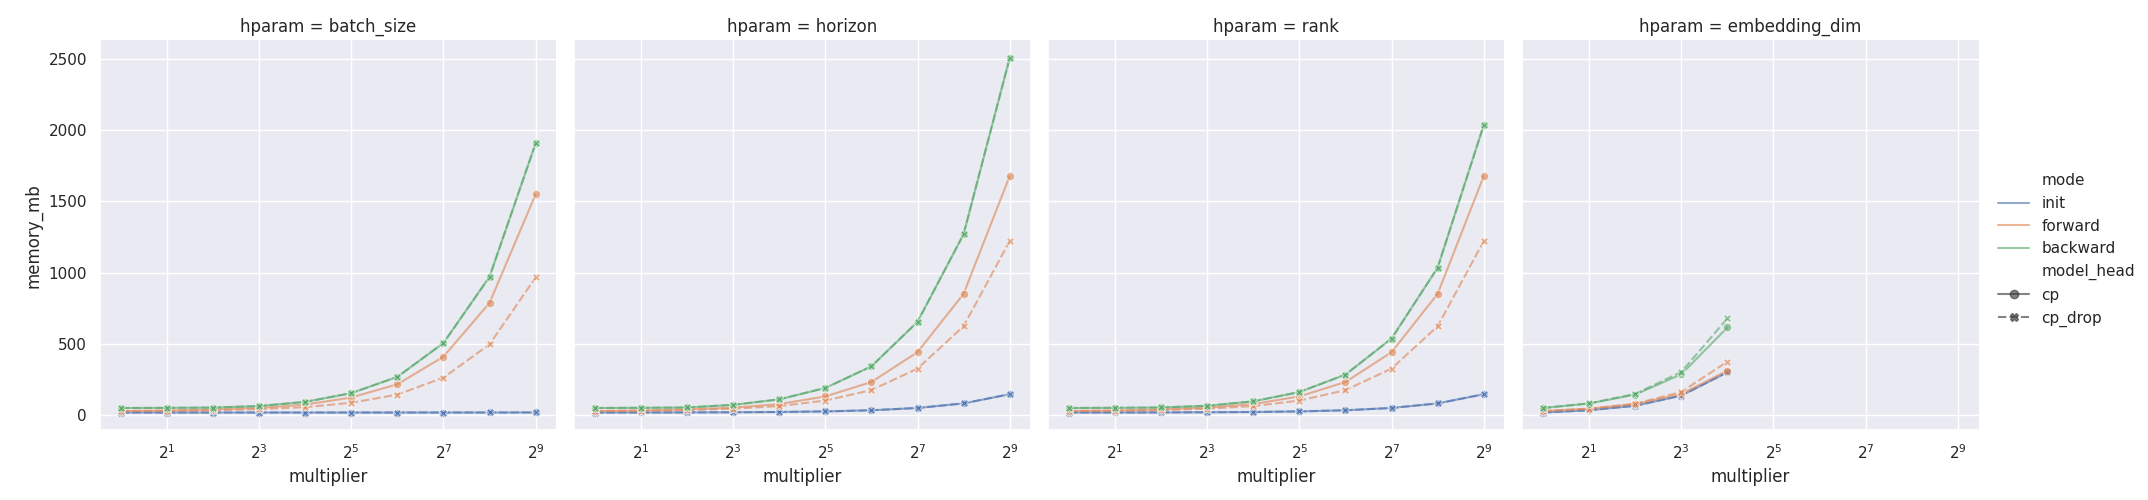
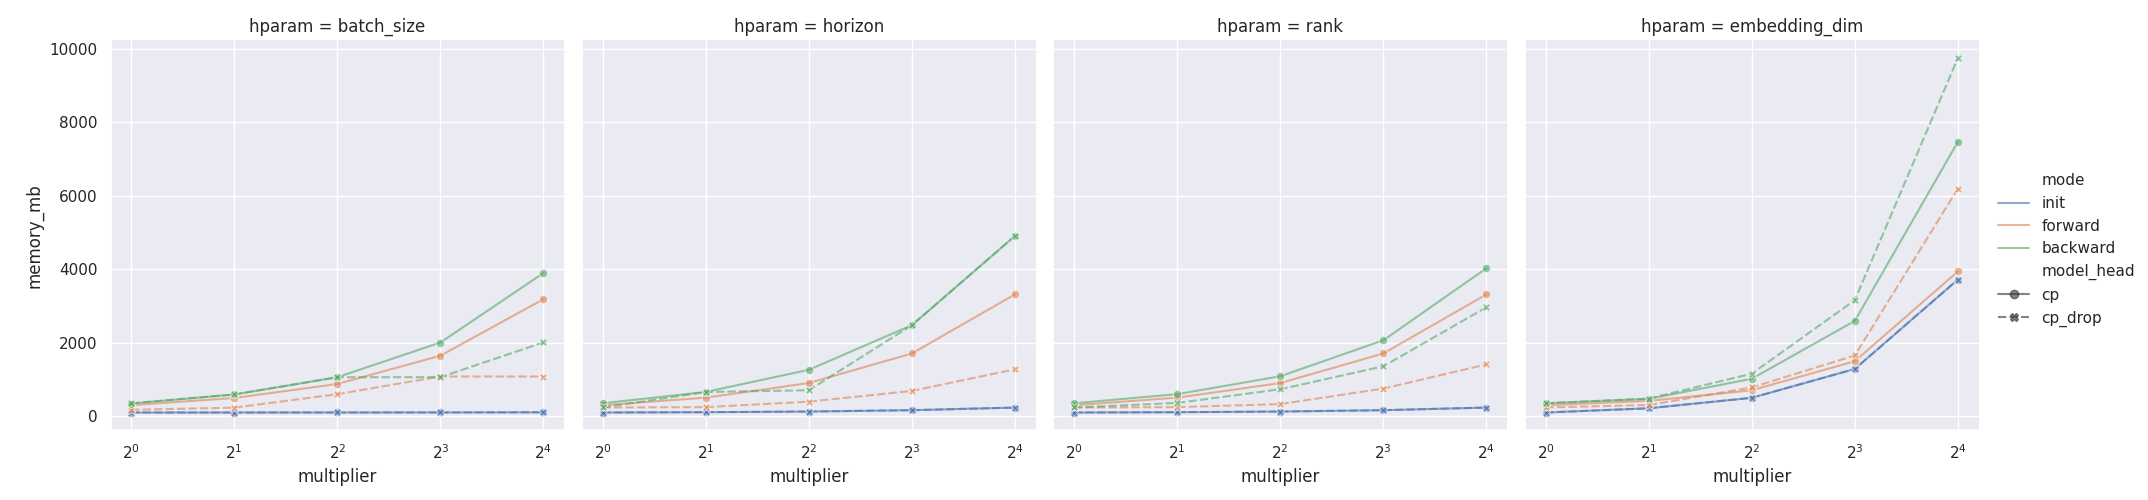
Use getters and setters

diff --git a/tjdnet/distributions/cp_dropout.py b/tjdnet/distributions/cp_dropout.py
@@ -24,20 +24,31 @@ class CPDropDist(TJDist):
         }[config.positivity_func]
         self.config = config
 
-        # Encoder
-        self.w_encoder = torch.nn.init.kaiming_uniform_(
-            torch.nn.Parameter(
-                torch.empty(
-                    config.embedding_dim,
-                    config.embedding_dim * config.rank * config.horizon,
-                )
-            )
-        )
-        self.b_encoder = torch.nn.Parameter(
-            torch.zeros(config.embedding_dim * config.rank * config.horizon)
-        )
+        R, D, H = config.rank, config.embedding_dim, config.horizon
 
-        # Decoder
+        # Encoder
+        for i in range(R):
+            setattr(
+                self,
+                f"w_encoder_{i}",
+                torch.nn.init.kaiming_uniform_(
+                    torch.nn.Parameter(torch.empty(D, D * H))
+                ),
+            )
+            setattr(self, f"b_encoder_{i}", torch.nn.Parameter(torch.zeros(D * H)))
+        # self.w_encoder = torch.nn.init.kaiming_uniform_(
+        #     torch.nn.Parameter(
+        #         torch.empty(
+        #             config.embedding_dim,
+        #             config.embedding_dim * config.rank * config.horizon,
+        #         )
+        #     )
+        # )
+        # self.b_encoder = torch.nn.Parameter(
+        #     torch.zeros(config.embedding_dim * config.rank * config.horizon)
+        # )
+
+        # # Decoder
         self.w_decoder = torch.nn.init.kaiming_uniform_(
             torch.nn.Parameter(torch.empty(config.embedding_dim, config.vocab_size))
         )
@@ -96,24 +107,30 @@ class CPDropDist(TJDist):
         D, R, H = self.config.embedding_dim, self.config.rank, self.config.horizon
 
         # Encoder: (B, D) -> (B, D, R', H)
-        mask_keep = (
-            torch.rand(R, device=x.device) > self.config.dropout
-            if not self.training
-            else torch.ones(R, device=x.device) == torch.tensor(1.0)
-        )
-        # If all ranks are dropped, keep all ranks
-        mask_keep = (
-            torch.ones(R, device=x.device) == torch.tensor(1.0)
-            if mask_keep.sum() == 0
-            else mask_keep
-        )
+        rmask = torch.randint(0, 2, (R,), dtype=torch.bool, device=x.device)
+        rmask[torch.randint(R, (1,), device=x.device)] = True  # guarantee ≥1 True
+        print(f"Rank pruning: {R} -> {rmask.sum()}")
 
-        gamma = 1 / (1 - self.config.dropout) if self.training else 1.0
-        w_encoder = self.w_encoder.reshape(D, D, R, H)[:, :, mask_keep]  # (D, D, R', H)
-        z = gamma * (
-            torch.einsum("be,edrh->bdrh", x, w_encoder)
-            + self.b_encoder.reshape(D, R, H)[:, mask_keep]
-        )  # (B, D, R', H)
+        # MoE-like rank pruning
+        w_encoder = torch.stack(
+            [
+                getattr(self, f"w_encoder_{i}").reshape(D, D, H)
+                for i in range(R)
+                if rmask[i]
+            ],
+            dim=2,
+        )  # (D, D, R', H)
+        b_encoder = torch.stack(
+            [
+                getattr(self, f"b_encoder_{i}").reshape(D, H)
+                for i in range(R)
+                if rmask[i]
+            ],
+            dim=1,
+        )  # (D, R', H)
+
+        gamma = 1 / (1 - 0.5) if self.training else 1.0
+        z = gamma * torch.einsum("be,edrh->bdrh", x, w_encoder) + b_encoder
 
         # Decoder: (B, D, R', H) -> (B, R', H, V)
         theta = torch.einsum("bdrh,dv->brhv", z, self.w_decoder) + self.b_decoder

diff --git a/scripts/plot_mhead_memory.py b/scripts/plot_mhead_memory.py
@@ -11,7 +11,6 @@ import seaborn as sns
 
 from tjdnet.distributions import TJD_DISTS
 from tjdnet.distributions._base import BaseDistConfig
-from tjdnet.distributions.cp import CPDist
 from utils.perf import get_peak_memory_usage
 
 
@@ -51,14 +50,18 @@ def main():
 
     # Default values
     defaults = {
-        "batch_size": 2,
+        "batch_size": 128,
         "horizon": 2,
         "rank": 2,
-        "embedding_dim": 128,
+        "embedding_dim": 768,
         "vocab_size": 30000,
     }
-    max_exp = 10
-    max_exp_embedding_dim = 5
+    max_exps = {
+        "horizon": 5,
+        "rank": 5,
+        "embedding_dim": 5,
+        "batch_size": 5,
+    }
 
     # Attrs:
     # col: hparam (batch_size, horizon, rank, embedding_dim)
@@ -71,7 +74,7 @@ def main():
     for mode in ["init", "forward", "backward"]:
         for head in ["cp", "cp_drop"]:
             for hparam in ["batch_size", "horizon", "rank", "embedding_dim"]:
-                T = max_exp_embedding_dim if hparam == "embedding_dim" else max_exp
+                T = max_exps[hparam]
                 for i in range(T):
                     kwargs.append(
                         {
